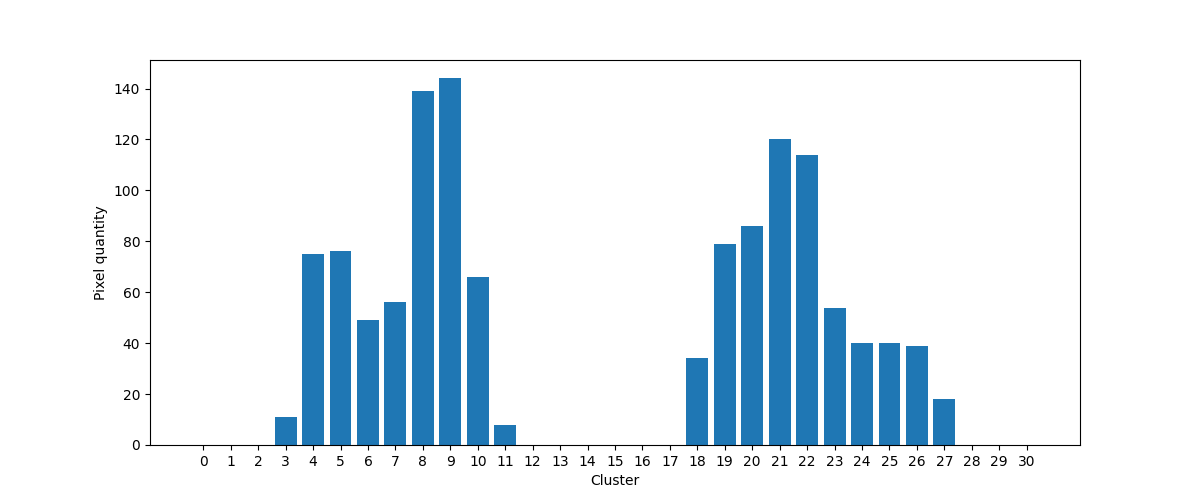
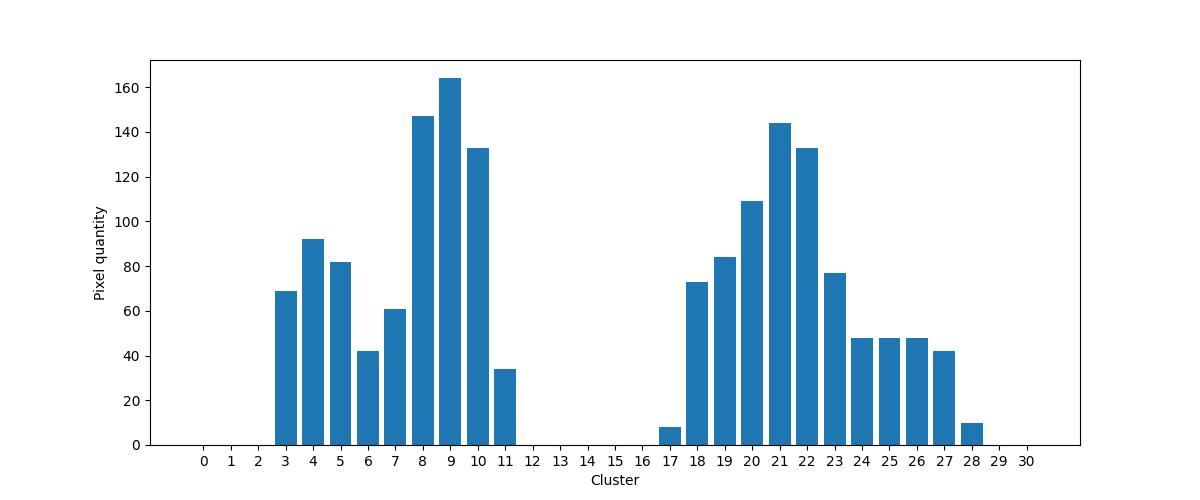
Mejora en precision

diff --git a/lab6.py b/lab6.py
@@ -37,7 +37,7 @@ def saveImage(image, path, name):
     cv2.imwrite(path+str(name)+".png", image)
 
 
-def extractIndividualNumbers(image, path, counter):
+def extractIndividualNumbers(image, path, counter, group, num):
         
     resized = cv2.resize(image, (1156, 216))
 
@@ -52,7 +52,7 @@ def extractIndividualNumbers(image, path, counter):
         for x in range(0,w,stepW):
             crop_img = resized[y:y+stepH, x+add:x+stepW+add]
             
-            crop_img = preprocessing(crop_img)
+            crop_img = preprocessing(crop_img, group, num)
             crop_img = center(crop_img)
             saveImage(crop_img, path, counter)
             
@@ -94,12 +94,21 @@ def whitePadding(image, quantity:int):
 
     return image
 
-def preprocessing(img):
+def preprocessing(img, group, number):
 
     (h, w) = img.shape[:2]
 
     img = cv2.cvtColor(img, cv2.COLOR_BGR2GRAY)
-    img = cv2.GaussianBlur(img[0:h, 4:w-4], (3,3), cv2.BORDER_DEFAULT)
+
+    l = (3,3)
+
+    if(group == 0):
+        if(number == 4):
+            l = (5,5)
+    else:
+        if(number == 0):
+            l = (5,5)
+    img = cv2.GaussianBlur(img[0:h, 4:w-4], l, cv2.BORDER_DEFAULT)
     _ , img = cv2.threshold(img, 0, 255, cv2.THRESH_BINARY | cv2.THRESH_TRIANGLE)
 
     img, l = fillBlackLines(img, 0, 0)
@@ -110,9 +119,42 @@ def preprocessing(img):
     kernel = np.ones((3,3), np.uint8)
     closing = cv2.morphologyEx(img, cv2.MORPH_CLOSE, kernel)
     #img_dilation = cv2.dilate(img, kernel, iterations=1)
+
+    img2 = cv2.bitwise_not(closing)
+    #showImage(img2, "og1")
     
 
-    return closing
+    #"showImage(img2, "og1")
+    
+
+    contoursL = cv2.findContours(img2, cv2.RETR_EXTERNAL, cv2.CHAIN_APPROX_SIMPLE)
+
+    #"print("cnt", contoursL)
+
+    contours = contoursL[0] if len(contoursL) == 2 else contoursL[1]
+    big_contour = max(contours, key=cv2.contourArea)
+    
+    
+    #print(big_contour)
+
+
+    # draw largest contour as white filled on black background as mask
+    (h2, w2) = img2.shape[:2]
+    mask = np.zeros((h2, w2), dtype=np.uint8)
+    #showImage(mask, "mask1")
+    cv2.drawContours(mask, [big_contour], 0, 255, -1)
+    #showImage(mask, "mask2")
+
+    # use mask to black all but largest contour
+    result = img.copy()
+    result[mask==0] = 255
+
+    result = cv2.dilate(result, kernel, iterations=1)
+    
+
+    return result
+
+    
 
 
 def showImage(image, name):
@@ -130,7 +172,8 @@ def processSamples(groupId):
     else:
         groupB = getImageFiles("./groupB/")
     
-
+    print(groupA)
+    print(groupB)
     groupAPaths = [zeroesPath, onesPath, twosPath, threesPath, foursPath]
     groupBPaths = [fivesPath, sixesPath, sevensPath, eightsPath, ninesPath]
 
@@ -163,8 +206,9 @@ def processSamples(groupId):
             crop_img = src[bef: bef + move, 0:w]
             #if(l==1 and groupId==1):
                 #showImage(crop_img, "crop")
-            #showImage(crop_img, "crop")
-            groupCounts[groupId][l] = extractIndividualNumbers(crop_img, groupPaths[groupId][l], groupCounts[groupId][l])
+            #kernel = np.ones((1,1), np.uint8)
+            #crop_img = cv2.morphologyEx(crop_img, cv2.MORPH_CLOSE, kernel)
+            groupCounts[groupId][l] = extractIndividualNumbers(crop_img, groupPaths[groupId][l], groupCounts[groupId][l], groupId, l)
             #print(groupACounts[l], " ", groupAPaths[l])
             excessB += excess
             moveB += move
@@ -281,14 +325,16 @@ def center(image):
 
     img_crp = image[upper:lower, left:right]
 
-    bordersize = 15
+    bordersize = 10
     img_crp = cv2.copyMakeBorder(img_crp,top=bordersize,bottom=bordersize,left=bordersize,right=bordersize,borderType=cv2.BORDER_CONSTANT,value=[255, 255, 255])
 
     img_crp = cv2.resize(img_crp, (60, 64))
-    _ , img_crp = cv2.threshold(img_crp, 0, 255, cv2.THRESH_BINARY | cv2.THRESH_TRIANGLE)
+    img_crp = cv2.threshold(img_crp, 0, 255, cv2.THRESH_BINARY | cv2.THRESH_TRIANGLE)[1]
 
-    kernel = np.ones((1,1), np.uint8)
-    img_crp = cv2.dilate(img_crp, kernel, iterations=1)
+    #img_crp = cv2.blur(img_crp,(5,5))
+
+    #kernel = np.ones((5,5), np.uint8)
+    #img_crp = cv2.dilate(img_crp, kernel, iterations=1)
 
     return img_crp
 
@@ -309,3 +355,72 @@ def main():
     return
 
 main()
+
+def fillBlackLines2(image, direction:int, lastY:int):
+    (h, w) = image.shape[:2]
+
+
+    
+    if (direction == 0):
+        for y in range(h):
+            if(max(image[y, 0:w]) == 0):
+                image[y, 0:w] = 255
+                lastY = y
+
+        for y in range(0,int(int(h*0.1))):
+            if(sum(image[y, 0:w])/255 < 0.25*w):
+                image[y, 0:w] = 255
+                lastY = y
+
+        for y in range(int(h*0.85), h):
+            if(sum(image[y, 0:w])/255 < 0.25*w):
+                image[y, 0:w] = 255
+                lastY = y
+
+    else:
+        for x in range(w):
+            k = lastY
+            k+=1
+            if(k < h):
+                if(max(image[k:h, x]) == 0):
+                    image[k:h, x] = 255
+
+        for x in range(0,int(w*0.25)):
+            if(sum(image[0:h, x])/255 < 0.10*h):
+                image[0:h, x] = 255
+
+        for x in range(int(w*0.75), w):
+            if(sum(image[0:h, x])/255 < 0.10*h):
+                image[0:h, x] = 255
+
+    return image, lastY
+
+def a(img):
+    img2 = cv2.bitwise_not(img)
+    #showImage(img2, "og1")
+    
+
+    #"showImage(img2, "og1")
+    
+
+    contoursL = cv2.findContours(img2, cv2.RETR_EXTERNAL, cv2.CHAIN_APPROX_SIMPLE)
+
+    #"print("cnt", contoursL)
+
+    contours = contoursL[0] if len(contoursL) == 2 else contoursL[1]
+    big_contour = max(contours, key=cv2.contourArea)
+    
+    
+    #print(big_contour)
+
+
+    # draw largest contour as white filled on black background as mask
+    (h2, w2) = img2.shape[:2]
+    mask = np.zeros((h2, w2), dtype=np.uint8)
+    #showImage(mask, "mask1")
+    cv2.drawContours(mask, [big_contour], 0, 255, -1)
+    #showImage(mask, "mask2")
+
+    # use mask to black all but largest contour
+    result = img.copy()
+    result[mask==0] = 255
